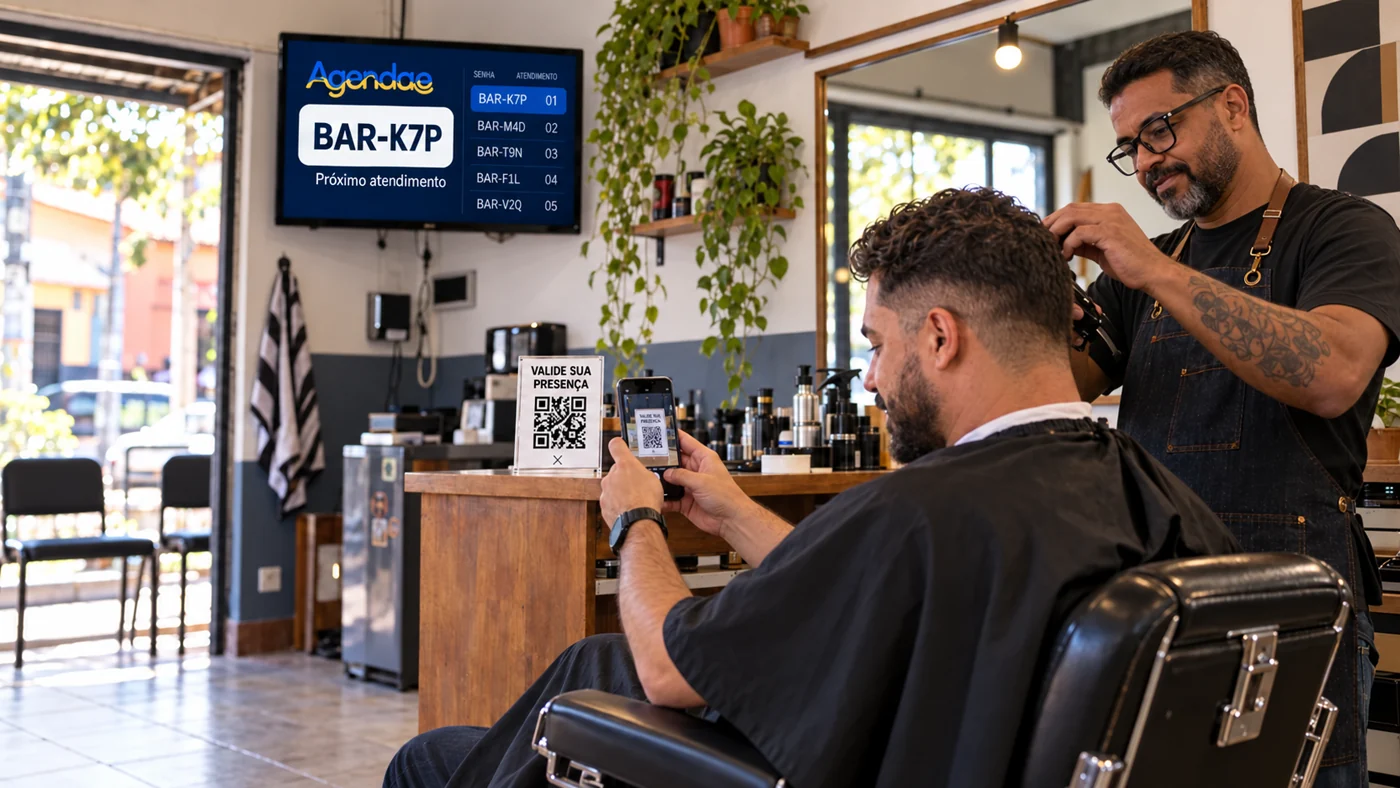
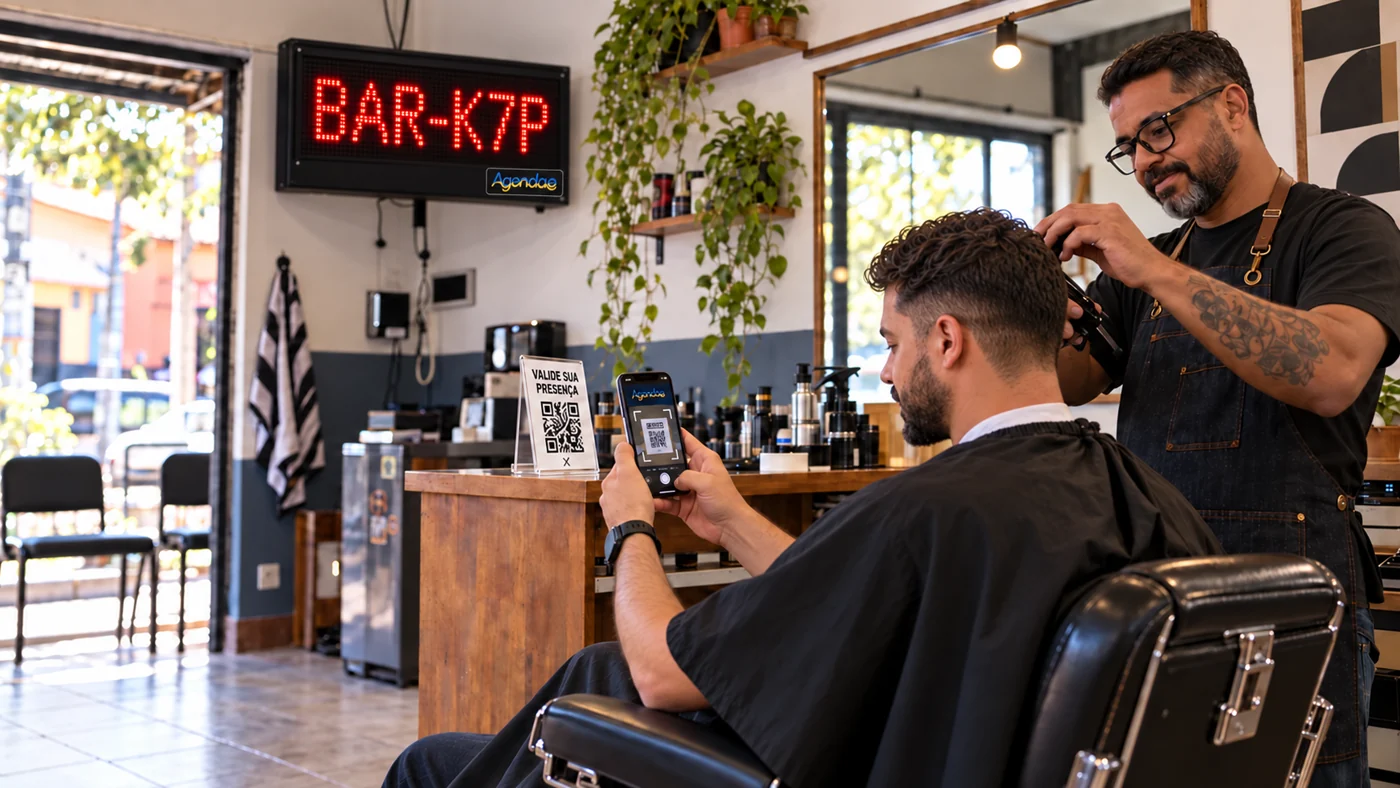
Refine barbershop scanner and viewport layout

diff --git a/professional.js b/professional.js
@@ -410,8 +410,8 @@ function renderHome() {
   app.innerHTML = `
     ${homeHeader()}
     <main class="portfolio-home">
-      <section class="portfolio-feature portfolio-barber" aria-labelledby="portfolio-barber-title"><div class="portfolio-feature-inner"><div class="portfolio-feature-copy"><span>BARBEARIAS</span><h1 id="portfolio-barber-title">Agende os atendimentos da sua barbearia</h1><p>O cliente escolhe o serviço e o profissional, recebe a senha no aplicativo e valida a presença pelo QR code.</p><div class="portfolio-feature-tags"><b>Serviços</b><b>Funcionários</b><b>Agendamento online</b></div>${whatsappSalesCta()}</div><div class="portfolio-feature-media"><img src="${href("/public/imagens/portfolio-barbearia.webp")}" alt="Cliente de barbearia validando a presença com o celular na placa física com QR code e painel Agendae ao fundo"></div></div></section>
-      <section class="portfolio-feature portfolio-clinic" aria-labelledby="portfolio-clinic-title"><div class="portfolio-feature-inner"><div class="portfolio-feature-copy"><span>CLÍNICAS</span><h2 id="portfolio-clinic-title">Agenda clínica mais organizada com controle de pausas e senhas por especializações e profissionais</h2><p>Organize a rotina da clínica e permita que cada paciente acompanhe no aplicativo a mesma senha exibida no painel.</p><div class="portfolio-feature-tags"><b>Controle de pausas</b><b>Especializações</b><b>Profissionais</b></div>${whatsappSalesCta()}</div><div class="portfolio-feature-media"><img src="${href("/public/imagens/portfolio-clinica.webp")}" alt="Clínica com aplicativo Agendae no celular, a mesma senha no painel do estabelecimento e placa física com QR code"></div></div></section>
+      <section class="portfolio-feature portfolio-barber" aria-labelledby="portfolio-barber-title"><div class="portfolio-feature-inner"><div class="portfolio-feature-copy"><span>BARBEARIAS</span><h1 id="portfolio-barber-title">Agende os atendimentos da sua barbearia</h1><p>O cliente escolhe o serviço e o profissional, recebe a senha no aplicativo e valida a presença pelo QR code.</p><div class="portfolio-feature-tags"><b>Serviços</b><b>Funcionários</b><b>Agendamento online</b></div>${whatsappSalesCta()}</div><div class="portfolio-feature-media"><img src="${href("/public/imagens/portfolio-barbearia.webp")}" alt="Cliente de barbearia usando o leitor Agendae no celular para escanear a placa física com QR code, com painel LED vermelho ao fundo"></div></div></section>
+      <section class="portfolio-feature portfolio-clinic" aria-labelledby="portfolio-clinic-title"><div class="portfolio-feature-inner"><div class="portfolio-feature-copy"><span>CLÍNICAS</span><h2 id="portfolio-clinic-title">Agenda clínica mais organizada com controle de pausas e senhas por especializações e profissionais</h2><p>Organize a rotina da clínica e permita que cada paciente acompanhe no aplicativo a mesma senha exibida no painel.</p><div class="portfolio-feature-tags"><b>Controle de pausas</b><b>Especializações</b><b>Profissionais</b></div>${whatsappSalesCta()}</div><div class="portfolio-feature-media"><img src="${href("/public/imagens/portfolio-clinica.webp")}" alt="Clínica com pacientes sentados na espera, aplicativo Agendae, painel de senhas e placa física com QR code"></div></div></section>
       <section class="portfolio-feature portfolio-food" aria-labelledby="portfolio-food-title"><div class="portfolio-feature-inner"><div class="portfolio-feature-copy"><span>ALIMENTAÇÃO E COMÉRCIOS DE BAIRRO</span><h2 id="portfolio-food-title">Painel de Senhas. Controle a ordem dos seus clientes, mais conforto para todos!</h2><p>A equipe controla a sequência dos pedidos enquanto cada cliente acompanha no aplicativo a mesma senha chamada no painel.</p><div class="portfolio-feature-tags"><b>Senhas do dia</b><b>Fila organizada</b><b>Painel de retirada</b></div>${whatsappSalesCta()}</div><div class="portfolio-feature-media"><img src="${href("/public/imagens/portfolio-fast-food.webp")}" alt="Comércio de acarajé de bairro com cardápio plástico, senha ACC-32 no aplicativo e painel Agendae, e placa física com QR code"></div></div></section>
       <section class="portfolio-product" aria-labelledby="portfolio-product-title"><div class="portfolio-product-inner"><div class="portfolio-section-title"><span>PÁGINA DO ESTABELECIMENTO</span><h2 id="portfolio-product-title">Tudo que o cliente precisa para escolher.</h2></div><div class="portfolio-product-grid"><article class="portfolio-product-card portfolio-map-card"><div><small>LOCALIZAÇÃO</small><h3>Mapa do estabelecimento</h3><p>O cliente encontra o endereço do atendimento diretamente na página.</p></div><svg viewBox="0 0 420 220" role="img" aria-label="Ilustração de mapa com a localização do estabelecimento"><rect width="420" height="220" fill="#eaf0e8"/><path d="M0 38 121 0h65L34 220H0ZM234 0h42L152 220H107ZM395 0h25v57L312 220h-48Z" fill="#d7e7d2"/><path d="M-14 149 434 47M80-20l131 260M299-20l-56 260M-18 205 438 119" stroke="#fff" stroke-width="25"/><path d="M-14 149 434 47M80-20l131 260M299-20l-56 260M-18 205 438 119" stroke="#c6d4df" stroke-width="2"/><circle cx="252" cy="102" r="28" fill="#d7e7fb"/><path d="M252 75a20 20 0 0 0-20 20c0 17 20 37 20 37s20-20 20-37a20 20 0 0 0-20-20Z" fill="#2059b6"/><circle cx="252" cy="95" r="7" fill="#fff"/></svg><strong class="portfolio-address">Endereço do seu estabelecimento</strong></article><article class="portfolio-product-card"><small>SERVIÇOS</small><h3>Catálogo de atendimentos</h3><div class="portfolio-demo-list"><span class="portfolio-app-icon">✦</span><span><strong>Serviço principal</strong><em>Descrição do atendimento</em></span></div><div class="portfolio-demo-list"><span class="portfolio-app-icon">◇</span><span><strong>Atendimento personalizado</strong><em>Disponível para agendamento</em></span></div></article><article class="portfolio-product-card"><small>FUNCIONÁRIOS</small><h3>Equipe do estabelecimento</h3><div class="portfolio-demo-list"><span class="portfolio-avatar">A</span><span><strong>Profissional especializado</strong><em>Escolha para seu atendimento</em></span></div><div class="portfolio-demo-list"><span class="portfolio-avatar green">B</span><span><strong>Equipe disponível</strong><em>Perfis apresentados ao cliente</em></span></div></article></div></div></section>
       <section class="home-partners portfolio-partners"><div><span>ACESSO À AGENDA</span><h2>Estabelecimentos Parceiros</h2><p>Selecione um estabelecimento para abrir sua página.</p></div><div class="partner-field"><label for="partner-select">Estabelecimentos Parceiros</label><select id="partner-select" ${partners.length ? "" : "disabled"}><option value="">${!catalogLoaded ? "Carregando estabelecimentos…" : partners.length ? "Selecione um estabelecimento" : "Nenhum parceiro disponível"}</option>${partnerOptions}</select></div></section>

diff --git a/professional.css b/professional.css
@@ -28,7 +28,8 @@ img { display: block; max-width: 100%; }
 .icon-btn { width: 42px; height: 42px; display: grid; place-items: center; border: 1px solid var(--line); border-radius: 11px; background: #fff; color: var(--navy-2); }
 
 /* Página inicial */
-.home-header { height: 78px; border-bottom: 1px solid #e9edf4; background: #fff; }
+.home-header { position: fixed; z-index: 70; top: 0; right: 0; left: 0; height: 78px; border-bottom: 1px solid #e9edf4; background: #fff; }
+.home-header+.portfolio-home,.home-header+.system-page { margin-top: 78px; }
 .home-nav { width: min(1180px,calc(100% - 48px)); height: 100%; margin: auto; display: flex; align-items: center; justify-content: space-between; gap: 24px; }
 .home-nav-links { display: flex; align-items: center; gap: 8px; }
 .home-header-contact { min-height: 44px; color: #176b49; background: #e7f7ef; box-shadow: none; }
@@ -150,9 +151,12 @@ img { display: block; max-width: 100%; }
 .partner-field select:focus { border-color: var(--blue-2); box-shadow: 0 0 0 3px var(--blue-soft); }
 .partner-field select:disabled { color: #8795a8; background: #f8fafd; }
 .portfolio-home { overflow: hidden; background: #fff; }
-.portfolio-feature { position: relative; padding: 78px 0; }
+.portfolio-feature { position: relative; min-height: calc(100svh - 78px); padding: 32px 0; display: flex; align-items: center; }
 .portfolio-feature:nth-child(even) { background: #f3f7fd; }
 .portfolio-feature-inner { width: min(1180px,calc(100% - 48px)); margin: auto; display: grid; grid-template-columns: minmax(300px,.72fr) minmax(0,1.28fr); align-items: center; gap: 62px; }
+.portfolio-clinic .portfolio-feature-inner { grid-template-columns: minmax(0,1.28fr) minmax(300px,.72fr); }
+.portfolio-clinic .portfolio-feature-media { order: 1; }
+.portfolio-clinic .portfolio-feature-copy { order: 2; }
 .portfolio-feature-copy>span,.portfolio-section-title>span,.portfolio-product-card>small { color: var(--blue); font-size: 10px; font-weight: 800; letter-spacing: 1.4px; }
 .portfolio-feature-copy h1,.portfolio-feature-copy h2 { margin: 13px 0 17px; color: var(--navy); font: 800 clamp(32px,3.6vw,50px)/1.12 "Manrope",sans-serif; letter-spacing: -1.8px; }
 .portfolio-feature-copy p { margin: 0; color: #5f6f85; font-size: 16px; line-height: 1.72; }
@@ -167,15 +171,16 @@ img { display: block; max-width: 100%; }
 .portfolio-whatsapp-button:disabled { color: #587266; background: #dcebe4; box-shadow: none; cursor: not-allowed; }
 .portfolio-whatsapp-button:disabled:hover { transform: none; background: #dcebe4; }
 .portfolio-whatsapp-button>span { margin-left: 4px; display: inline; font-size: 15px; }
-.portfolio-feature-media { position: relative; min-height: 500px; overflow: hidden; border-radius: 24px; background: #dfe8f3; box-shadow: 0 28px 65px rgba(12,42,91,.15); }
+.portfolio-feature-media { position: relative; height: clamp(380px,calc(100svh - 142px),560px); min-height: 0; overflow: hidden; border-radius: 24px; background: #dfe8f3; box-shadow: 0 28px 65px rgba(12,42,91,.15); }
 .portfolio-feature-media::after { content: ""; position: absolute; inset: 0; background: linear-gradient(100deg,rgba(7,27,63,.08),transparent 55%); pointer-events: none; }
-.portfolio-feature-media>img { width: 100%; height: 500px; object-fit: cover; }
+.portfolio-feature-media>img { width: 100%; height: 100%; object-fit: cover; }
 .portfolio-clinic .portfolio-feature-media>img,.portfolio-food .portfolio-feature-media>img { object-position: 70% center; }
 .portfolio-demo-list em { display: block; margin-top: 2px; color: #8795a8; font-size: 8px; font-style: normal; font-weight: 600; }
 .portfolio-app-icon,.portfolio-avatar { width: 30px; height: 30px; display: grid; place-items: center; flex: 0 0 auto; border-radius: 8px; color: var(--blue); background: #e7f0ff; font-size: 14px; font-weight: 800; }
 .portfolio-avatar { color: #fff; background: var(--navy-2); font-size: 10px; }
 .portfolio-avatar.green { background: #238263; }
-.portfolio-clinic .portfolio-feature-copy h2,.portfolio-food .portfolio-feature-copy h2 { font-size: clamp(29px,3.1vw,43px); }
+.portfolio-clinic .portfolio-feature-copy h2 { font-size: clamp(27px,2.7vw,38px); }
+.portfolio-food .portfolio-feature-copy h2 { font-size: clamp(29px,3.1vw,43px); }
 .portfolio-product { padding: 92px 0; background: #071b3f; }
 .portfolio-product-inner { width: min(1180px,calc(100% - 48px)); margin: auto; }
 .portfolio-section-title { max-width: 680px; margin-bottom: 36px; }
@@ -193,7 +198,7 @@ img { display: block; max-width: 100%; }
 .portfolio-partners { padding-top: 62px; padding-bottom: 68px; }
 .portfolio-partners h2 { font-size: 25px; }
 @media (max-width:980px) {
-  .portfolio-feature { padding: 64px 0; }
+  .portfolio-feature { min-height: 0; padding: 64px 0; display: block; }
   .portfolio-feature-inner { grid-template-columns: 1fr; gap: 34px; }
   .portfolio-feature-copy,.portfolio-feature:nth-child(even) .portfolio-feature-copy { order: 1; max-width: 720px; }
   .portfolio-feature-media,.portfolio-feature:nth-child(even) .portfolio-feature-media { order: 2; width: 100%; }
@@ -202,11 +207,12 @@ img { display: block; max-width: 100%; }
   .portfolio-map-card svg { grid-column: 2; grid-row: 1 / span 2; }
 }
 @media (max-width:720px) {
+  .home-header+.portfolio-home,.home-header+.system-page { margin-top: 70px; }
   .portfolio-feature { padding: 48px 0; }
   .portfolio-feature-inner,.portfolio-product-inner { width: calc(100% - 32px); }
   .portfolio-feature-copy h1,.portfolio-feature-copy h2 { font-size: 34px; letter-spacing: -1.3px; }
   .portfolio-feature-copy p { font-size: 14px; }
-  .portfolio-feature-media,.portfolio-feature-media>img { min-height: 430px; height: 430px; }
+  .portfolio-feature-media,.portfolio-feature-media>img { min-height: min(430px,calc(100svh - 94px)); height: min(430px,calc(100svh - 94px)); }
   .portfolio-product { padding: 66px 0; }
   .portfolio-product-grid { grid-template-columns: 1fr; }
   .portfolio-map-card { grid-column: auto; display: block; }
@@ -223,7 +229,7 @@ img { display: block; max-width: 100%; }
   .portfolio-feature-tags b { padding: 7px 9px; font-size: 9px; }
   .portfolio-contact-cta { margin-top: 20px; padding-top: 18px; }
   .portfolio-whatsapp-button { width: 100%; }
-  .portfolio-feature-media,.portfolio-feature-media>img { min-height: 410px; height: 410px; }
+  .portfolio-feature-media,.portfolio-feature-media>img { min-height: min(410px,calc(100svh - 94px)); height: min(410px,calc(100svh - 94px)); }
   .portfolio-feature-media>img { object-position: 57% center; }
   .portfolio-barber .portfolio-feature-media>img { object-position: 55% center; }
   .portfolio-clinic .portfolio-feature-media>img,.portfolio-food .portfolio-feature-media>img { object-position: 76% center; }
